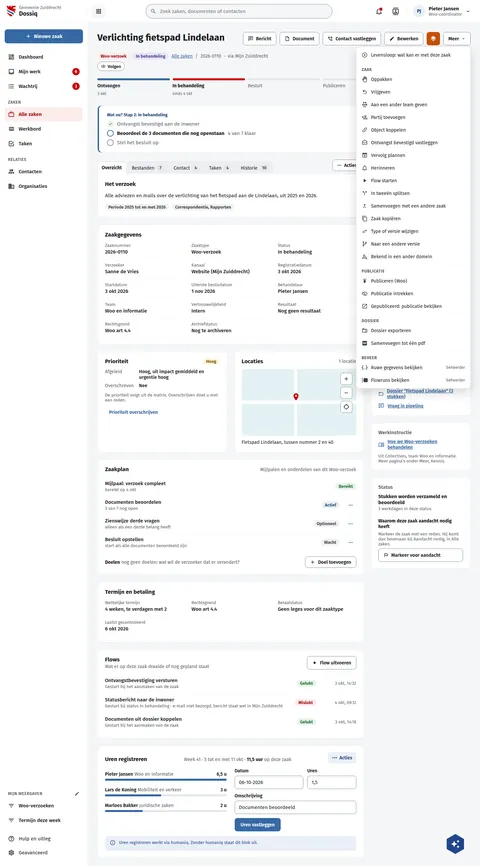
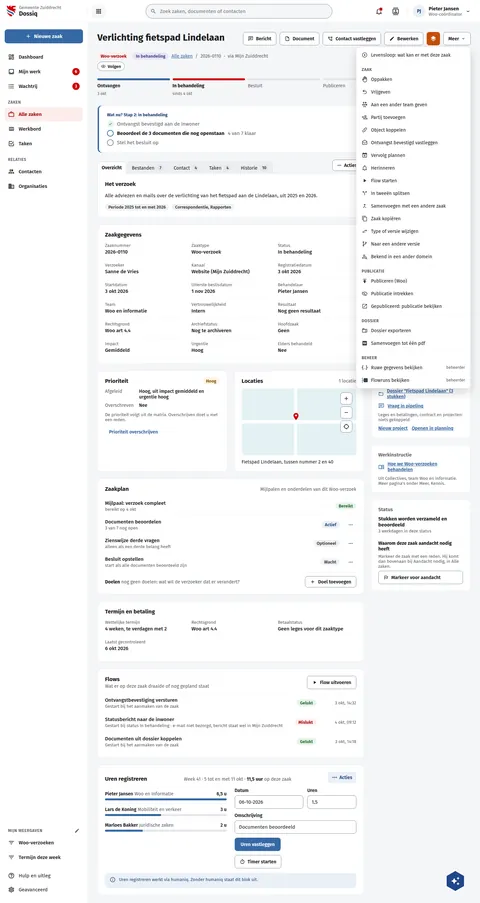
fix(screens): DqZaakMeer draws the case page DqZaak draws, with the Meer menu open
DqZaakMeer is DqZaak with the Meer menu open, but its page had drifted:
Zaakgegevens lacked Hoofdzaak, Impact, Urgentie and Elders behandeld,
Uren registreren lacked "Timer starten", and Gekoppeld lacked the
"niets gekoppeld" line with Nieuw project / Openen in planninq. Live draws
all of them, so r32 read DqZaakMeer's Prioriteit, Locaties and map 41px
low against a board that is 59px short. The three parts now match DqZaak.

Assisted-by: ClaudeCode:claude-opus-5-5

diff --git a/preview/screens/boards/DqZaakMeer.html b/preview/screens/boards/DqZaakMeer.html
@@ -232,7 +232,7 @@ a{color:var(--sc-primary, #3669a5)}a:hover{color:var(--sc-primary-deep, #234a78)
             </section>
             <section aria-labelledby="zg-titel" style="background: #ffffff; border: 1px solid var(--sc-work-line, #e4e6ea); border-radius: 12px; padding: 20px 22px; display: flex; flex-direction: column; gap: 14px">
               <h2 id="zg-titel" style="margin: 0; font-size: 17px; font-weight: 700">Zaakgegevens</h2>
-              <dl style="margin: 0; display: grid; grid-template-columns: repeat(auto-fit, minmax(200px, 1fr)); gap: 12px 24px; font-size: 15px"><div style="display: flex; flex-direction: column; gap: 3px; padding-bottom: 10px; border-bottom: 1px solid var(--sc-work-soft, #eef0f3)"><dt style="font-size: 13px; color: var(--sc-work-muted, #5e6168)">Zaaknummer</dt><dd style="margin: 0; font-weight: 500">2026-0110</dd></div><div style="display: flex; flex-direction: column; gap: 3px; padding-bottom: 10px; border-bottom: 1px solid var(--sc-work-soft, #eef0f3)"><dt style="font-size: 13px; color: var(--sc-work-muted, #5e6168)">Zaaktype</dt><dd style="margin: 0; font-weight: 500">Woo-verzoek</dd></div><div style="display: flex; flex-direction: column; gap: 3px; padding-bottom: 10px; border-bottom: 1px solid var(--sc-work-soft, #eef0f3)"><dt style="font-size: 13px; color: var(--sc-work-muted, #5e6168)">Status</dt><dd style="margin: 0; font-weight: 500">In behandeling</dd></div><div style="display: flex; flex-direction: column; gap: 3px; padding-bottom: 10px; border-bottom: 1px solid var(--sc-work-soft, #eef0f3)"><dt style="font-size: 13px; color: var(--sc-work-muted, #5e6168)">Verzoeker</dt><dd style="margin: 0; font-weight: 500">Sanne de Vries</dd></div><div style="display: flex; flex-direction: column; gap: 3px; padding-bottom: 10px; border-bottom: 1px solid var(--sc-work-soft, #eef0f3)"><dt style="font-size: 13px; color: var(--sc-work-muted, #5e6168)">Kanaal</dt><dd style="margin: 0; font-weight: 500">Website (Mijn Zuiddrecht)</dd></div><div style="display: flex; flex-direction: column; gap: 3px; padding-bottom: 10px; border-bottom: 1px solid var(--sc-work-soft, #eef0f3)"><dt style="font-size: 13px; color: var(--sc-work-muted, #5e6168)">Registratiedatum</dt><dd style="margin: 0; font-weight: 500">3 okt 2026</dd></div><div style="display: flex; flex-direction: column; gap: 3px; padding-bottom: 10px; border-bottom: 1px solid var(--sc-work-soft, #eef0f3)"><dt style="font-size: 13px; color: var(--sc-work-muted, #5e6168)">Startdatum</dt><dd style="margin: 0; font-weight: 500">3 okt 2026</dd></div><div style="display: flex; flex-direction: column; gap: 3px; padding-bottom: 10px; border-bottom: 1px solid var(--sc-work-soft, #eef0f3)"><dt style="font-size: 13px; color: var(--sc-work-muted, #5e6168)">Uiterste beslisdatum</dt><dd style="margin: 0; font-weight: 500">1 nov 2026</dd></div><div style="display: flex; flex-direction: column; gap: 3px; padding-bottom: 10px; border-bottom: 1px solid var(--sc-work-soft, #eef0f3)"><dt style="font-size: 13px; color: var(--sc-work-muted, #5e6168)">Behandelaar</dt><dd style="margin: 0; font-weight: 500">Pieter Jansen</dd></div><div style="display: flex; flex-direction: column; gap: 3px; padding-bottom: 10px; border-bottom: 1px solid var(--sc-work-soft, #eef0f3)"><dt style="font-size: 13px; color: var(--sc-work-muted, #5e6168)">Team</dt><dd style="margin: 0; font-weight: 500">Woo en informatie</dd></div><div style="display: flex; flex-direction: column; gap: 3px; padding-bottom: 10px; border-bottom: 1px solid var(--sc-work-soft, #eef0f3)"><dt style="font-size: 13px; color: var(--sc-work-muted, #5e6168)">Vertrouwelijkheid</dt><dd style="margin: 0; font-weight: 500">Intern</dd></div><div style="display: flex; flex-direction: column; gap: 3px; padding-bottom: 10px; border-bottom: 1px solid var(--sc-work-soft, #eef0f3)"><dt style="font-size: 13px; color: var(--sc-work-muted, #5e6168)">Resultaat</dt><dd style="margin: 0; font-weight: 500">Nog geen resultaat</dd></div><div style="display: flex; flex-direction: column; gap: 3px; padding-bottom: 10px; border-bottom: 1px solid var(--sc-work-soft, #eef0f3)"><dt style="font-size: 13px; color: var(--sc-work-muted, #5e6168)">Rechtsgrond</dt><dd style="margin: 0; font-weight: 500">Woo art 4.4</dd></div><div style="display: flex; flex-direction: column; gap: 3px; padding-bottom: 10px; border-bottom: 1px solid var(--sc-work-soft, #eef0f3)"><dt style="font-size: 13px; color: var(--sc-work-muted, #5e6168)">Archiefstatus</dt><dd style="margin: 0; font-weight: 500">Nog te archiveren</dd></div></dl>
+              <dl style="margin: 0; display: grid; grid-template-columns: repeat(auto-fit, minmax(200px, 1fr)); gap: 12px 24px; font-size: 15px"><div style="display: flex; flex-direction: column; gap: 3px; padding-bottom: 10px; border-bottom: 1px solid var(--sc-work-soft, #eef0f3)"><dt style="font-size: 13px; color: var(--sc-work-muted, #5e6168)">Zaaknummer</dt><dd style="margin: 0; font-weight: 500">2026-0110</dd></div><div style="display: flex; flex-direction: column; gap: 3px; padding-bottom: 10px; border-bottom: 1px solid var(--sc-work-soft, #eef0f3)"><dt style="font-size: 13px; color: var(--sc-work-muted, #5e6168)">Zaaktype</dt><dd style="margin: 0; font-weight: 500">Woo-verzoek</dd></div><div style="display: flex; flex-direction: column; gap: 3px; padding-bottom: 10px; border-bottom: 1px solid var(--sc-work-soft, #eef0f3)"><dt style="font-size: 13px; color: var(--sc-work-muted, #5e6168)">Status</dt><dd style="margin: 0; font-weight: 500">In behandeling</dd></div><div style="display: flex; flex-direction: column; gap: 3px; padding-bottom: 10px; border-bottom: 1px solid var(--sc-work-soft, #eef0f3)"><dt style="font-size: 13px; color: var(--sc-work-muted, #5e6168)">Verzoeker</dt><dd style="margin: 0; font-weight: 500">Sanne de Vries</dd></div><div style="display: flex; flex-direction: column; gap: 3px; padding-bottom: 10px; border-bottom: 1px solid var(--sc-work-soft, #eef0f3)"><dt style="font-size: 13px; color: var(--sc-work-muted, #5e6168)">Kanaal</dt><dd style="margin: 0; font-weight: 500">Website (Mijn Zuiddrecht)</dd></div><div style="display: flex; flex-direction: column; gap: 3px; padding-bottom: 10px; border-bottom: 1px solid var(--sc-work-soft, #eef0f3)"><dt style="font-size: 13px; color: var(--sc-work-muted, #5e6168)">Registratiedatum</dt><dd style="margin: 0; font-weight: 500">3 okt 2026</dd></div><div style="display: flex; flex-direction: column; gap: 3px; padding-bottom: 10px; border-bottom: 1px solid var(--sc-work-soft, #eef0f3)"><dt style="font-size: 13px; color: var(--sc-work-muted, #5e6168)">Startdatum</dt><dd style="margin: 0; font-weight: 500">3 okt 2026</dd></div><div style="display: flex; flex-direction: column; gap: 3px; padding-bottom: 10px; border-bottom: 1px solid var(--sc-work-soft, #eef0f3)"><dt style="font-size: 13px; color: var(--sc-work-muted, #5e6168)">Uiterste beslisdatum</dt><dd style="margin: 0; font-weight: 500">1 nov 2026</dd></div><div style="display: flex; flex-direction: column; gap: 3px; padding-bottom: 10px; border-bottom: 1px solid var(--sc-work-soft, #eef0f3)"><dt style="font-size: 13px; color: var(--sc-work-muted, #5e6168)">Behandelaar</dt><dd style="margin: 0; font-weight: 500">Pieter Jansen</dd></div><div style="display: flex; flex-direction: column; gap: 3px; padding-bottom: 10px; border-bottom: 1px solid var(--sc-work-soft, #eef0f3)"><dt style="font-size: 13px; color: var(--sc-work-muted, #5e6168)">Team</dt><dd style="margin: 0; font-weight: 500">Woo en informatie</dd></div><div style="display: flex; flex-direction: column; gap: 3px; padding-bottom: 10px; border-bottom: 1px solid var(--sc-work-soft, #eef0f3)"><dt style="font-size: 13px; color: var(--sc-work-muted, #5e6168)">Vertrouwelijkheid</dt><dd style="margin: 0; font-weight: 500">Intern</dd></div><div style="display: flex; flex-direction: column; gap: 3px; padding-bottom: 10px; border-bottom: 1px solid var(--sc-work-soft, #eef0f3)"><dt style="font-size: 13px; color: var(--sc-work-muted, #5e6168)">Resultaat</dt><dd style="margin: 0; font-weight: 500">Nog geen resultaat</dd></div><div style="display: flex; flex-direction: column; gap: 3px; padding-bottom: 10px; border-bottom: 1px solid var(--sc-work-soft, #eef0f3)"><dt style="font-size: 13px; color: var(--sc-work-muted, #5e6168)">Rechtsgrond</dt><dd style="margin: 0; font-weight: 500">Woo art 4.4</dd></div><div style="display: flex; flex-direction: column; gap: 3px; padding-bottom: 10px; border-bottom: 1px solid var(--sc-work-soft, #eef0f3)"><dt style="font-size: 13px; color: var(--sc-work-muted, #5e6168)">Archiefstatus</dt><dd style="margin: 0; font-weight: 500">Nog te archiveren</dd></div><div style="display: flex; flex-direction: column; gap: 3px; padding-bottom: 10px; border-bottom: 1px solid var(--sc-work-soft, #eef0f3)"><dt style="font-size: 13px; color: var(--sc-work-muted, #5e6168)">Hoofdzaak</dt><dd style="margin: 0; font-weight: 500">Geen</dd></div><div style="display: flex; flex-direction: column; gap: 3px; padding-bottom: 10px; border-bottom: 1px solid var(--sc-work-soft, #eef0f3)"><dt style="font-size: 13px; color: var(--sc-work-muted, #5e6168)">Impact</dt><dd style="margin: 0; font-weight: 500">Gemiddeld</dd></div><div style="display: flex; flex-direction: column; gap: 3px; padding-bottom: 10px; border-bottom: 1px solid var(--sc-work-soft, #eef0f3)"><dt style="font-size: 13px; color: var(--sc-work-muted, #5e6168)">Urgentie</dt><dd style="margin: 0; font-weight: 500">Hoog</dd></div><div style="display: flex; flex-direction: column; gap: 3px; padding-bottom: 10px; border-bottom: 1px solid var(--sc-work-soft, #eef0f3)"><dt style="font-size: 13px; color: var(--sc-work-muted, #5e6168)">Elders behandeld</dt><dd style="margin: 0; font-weight: 500">Nee</dd></div></dl>
             </section>
             <div style="display: grid; grid-template-columns: repeat(auto-fit, minmax(300px, 1fr)); gap: 20px">
               <section aria-labelledby="pr-titel" style="background: #ffffff; border: 1px solid var(--sc-work-line, #e4e6ea); border-radius: 12px; padding: 20px 22px; display: flex; flex-direction: column; gap: 12px">
@@ -269,7 +269,7 @@ a{color:var(--sc-primary, #3669a5)}a:hover{color:var(--sc-primary-deep, #234a78)
                     <div style="display: flex; flex-direction: column; gap: 6px"><label for="ur-uren" style="font-size: 14px; font-weight: 600">Uren</label><input id="ur-uren" type="text" inputmode="decimal" value="1,5" style="box-sizing: border-box; width: 100%; height: 40px; padding: 0 12px; border: 1px solid var(--sc-work-field, #828a95); border-radius: 8px; background: #ffffff; font: 400 15px var(--sc-font, 'Fira Sans'), sans-serif; color: var(--sc-work-ink, #1b1c1d)"></div>
                   </div>
                   <div style="display: flex; flex-direction: column; gap: 6px"><label for="ur-omschr" style="font-size: 14px; font-weight: 600">Omschrijving</label><input id="ur-omschr" type="text" value="Documenten beoordeeld" style="box-sizing: border-box; width: 100%; height: 40px; padding: 0 12px; border: 1px solid var(--sc-work-field, #828a95); border-radius: 8px; background: #ffffff; font: 400 15px var(--sc-font, 'Fira Sans'), sans-serif; color: var(--sc-work-ink, #1b1c1d)"></div>
-                  <button type="submit" style="align-self: flex-start; height: 40px; padding: 0 18px; border: 0; border-radius: 8px; background: var(--sc-primary, #3669a5); color: #ffffff; font: 600 14px var(--sc-font, 'Fira Sans'), sans-serif">Uren vastleggen</button>
+                  <button type="submit" style="align-self: flex-start; height: 40px; padding: 0 18px; border: 0; border-radius: 8px; background: var(--sc-primary, #3669a5); color: #ffffff; font: 600 14px var(--sc-font, 'Fira Sans'), sans-serif">Uren vastleggen</button><button type="button" style="align-self: flex-start; display: inline-flex; align-items: center; gap: 8px; height: 40px; padding: 0 14px; border-radius: 8px; border: 1px solid var(--sc-work-field, #828a95); background: #ffffff; color: var(--sc-work-ink, #1b1c1d); font: 600 14px var(--sc-font, 'Fira Sans'), sans-serif; white-space: nowrap"><svg width="16" height="16" viewbox="0 0 24 24" fill="currentColor" aria-hidden="true"><path d="M12,20A7,7 0 0,1 5,13A7,7 0 0,1 12,6A7,7 0 0,1 19,13A7,7 0 0,1 12,20M19.03,7.39L20.45,5.97C20,5.46 19.55,5 19.04,4.56L17.62,6C16.07,4.74 14.12,4 12,4A9,9 0 0,0 3,13A9,9 0 0,0 12,22C17,22 21,17.97 21,13C21,10.88 20.26,8.93 19.03,7.39M11,14H13V8H11M15,1H9V3H15V1Z"></path></svg>Timer starten</button>
                 </form>
               </div>
               <div style="display: flex; gap: 10px; align-items: flex-start; padding: 10px 14px; border-radius: 10px; background: var(--sc-primary-light, #eaf0f7); color: var(--sc-primary-deep, #234a78); font-size: 13px; line-height: 1.5"><span style="flex: none; margin-top: 1px"><svg width="18" height="18" viewbox="0 0 24 24" fill="currentColor" aria-hidden="true"><path d="M11,9H13V7H11M12,20C7.59,20 4,16.41 4,12C4,7.59 7.59,4 12,4C16.41,4 20,7.59 20,12C20,16.41 16.41,20 12,20M12,2A10,10 0 0,0 2,12A10,10 0 0,0 12,22A10,10 0 0,0 22,12A10,10 0 0,0 12,2M11,17H13V11H11V17Z"></path></svg></span><span>Uren registreren werkt via humaniq. Zonder humaniq staat dit blok uit.</span></div>
@@ -302,6 +302,7 @@ a{color:var(--sc-primary, #3669a5)}a:hover{color:var(--sc-primary-deep, #234a78)
               <h2 style="margin: 0; font-size: 15px; font-weight: 600; color: var(--sc-work-muted, #5e6168)">Gekoppeld</h2>
               <a href="#" style="display: flex; gap: 10px; align-items: center; font-size: 14px; font-weight: 600"><svg width="18" height="18" viewbox="0 0 24 24" fill="currentColor"><path d="M20,18H4V8H20M20,6H12L10,4H4C2.89,4 2,4.89 2,6V18A2,2 0 0,0 4,20H20A2,2 0 0,0 22,18V8C22,6.89 21.1,6 20,6Z"></path></svg>Dossier "Fietspad Lindelaan" (3 stukken)</a>
               <a href="#" style="display: flex; gap: 10px; align-items: center; font-size: 14px; font-weight: 600"><svg width="18" height="18" viewbox="0 0 24 24" fill="currentColor"><path d="M20,2A2,2 0 0,1 22,4V16A2,2 0 0,1 20,18H6L2,22V4C2,2.89 2.9,2 4,2H20M4,4V17.17L5.17,16H20V4H4M6,7H18V9H6V7M6,11H15V13H6V11Z"></path></svg>Vraag in pipelinq</a>
+              <span style="font-size: 13px; color: var(--sc-work-muted, #5e6168)">Leges en betalingen, contract en projecten: niets gekoppeld</span><span style="display: flex; flex-wrap: wrap; gap: 12px; font-size: 14px; font-weight: 600"><a href="#">Nieuw project</a><a href="#">Openen in planninq</a></span>
             </section>
             <section style="background: #ffffff; border: 1px solid var(--sc-work-line, #e4e6ea); border-radius: 12px; padding: 20px 22px; display: flex; flex-direction: column; gap: 10px">
               <h2 style="margin: 0; font-size: 15px; font-weight: 600; color: var(--sc-work-muted, #5e6168)">Werkinstructie</h2>

diff --git a/screens-src/zuiddrecht/DqZaakMeer.dc.html b/screens-src/zuiddrecht/DqZaakMeer.dc.html
@@ -82,7 +82,7 @@ a{color:#3669a5}a:hover{color:#234a78}
             </section>
             <section aria-labelledby="zg-titel" style="background: #ffffff; border: 1px solid #e4e6ea; border-radius: 12px; padding: 20px 22px; display: flex; flex-direction: column; gap: 14px">
               <h2 id="zg-titel" style="margin: 0; font-size: 17px; font-weight: 700">Zaakgegevens</h2>
-              <dl style="margin: 0; display: grid; grid-template-columns: repeat(auto-fit, minmax(200px, 1fr)); gap: 12px 24px; font-size: 15px"><div style="display: flex; flex-direction: column; gap: 3px; padding-bottom: 10px; border-bottom: 1px solid #eef0f3"><dt style="font-size: 13px; color: #5e6168">Zaaknummer</dt><dd style="margin: 0; font-weight: 500">2026-0110</dd></div><div style="display: flex; flex-direction: column; gap: 3px; padding-bottom: 10px; border-bottom: 1px solid #eef0f3"><dt style="font-size: 13px; color: #5e6168">Zaaktype</dt><dd style="margin: 0; font-weight: 500">Woo-verzoek</dd></div><div style="display: flex; flex-direction: column; gap: 3px; padding-bottom: 10px; border-bottom: 1px solid #eef0f3"><dt style="font-size: 13px; color: #5e6168">Status</dt><dd style="margin: 0; font-weight: 500">In behandeling</dd></div><div style="display: flex; flex-direction: column; gap: 3px; padding-bottom: 10px; border-bottom: 1px solid #eef0f3"><dt style="font-size: 13px; color: #5e6168">Verzoeker</dt><dd style="margin: 0; font-weight: 500">Sanne de Vries</dd></div><div style="display: flex; flex-direction: column; gap: 3px; padding-bottom: 10px; border-bottom: 1px solid #eef0f3"><dt style="font-size: 13px; color: #5e6168">Kanaal</dt><dd style="margin: 0; font-weight: 500">Website (Mijn Zuiddrecht)</dd></div><div style="display: flex; flex-direction: column; gap: 3px; padding-bottom: 10px; border-bottom: 1px solid #eef0f3"><dt style="font-size: 13px; color: #5e6168">Registratiedatum</dt><dd style="margin: 0; font-weight: 500">3 okt 2026</dd></div><div style="display: flex; flex-direction: column; gap: 3px; padding-bottom: 10px; border-bottom: 1px solid #eef0f3"><dt style="font-size: 13px; color: #5e6168">Startdatum</dt><dd style="margin: 0; font-weight: 500">3 okt 2026</dd></div><div style="display: flex; flex-direction: column; gap: 3px; padding-bottom: 10px; border-bottom: 1px solid #eef0f3"><dt style="font-size: 13px; color: #5e6168">Uiterste beslisdatum</dt><dd style="margin: 0; font-weight: 500">1 nov 2026</dd></div><div style="display: flex; flex-direction: column; gap: 3px; padding-bottom: 10px; border-bottom: 1px solid #eef0f3"><dt style="font-size: 13px; color: #5e6168">Behandelaar</dt><dd style="margin: 0; font-weight: 500">Pieter Jansen</dd></div><div style="display: flex; flex-direction: column; gap: 3px; padding-bottom: 10px; border-bottom: 1px solid #eef0f3"><dt style="font-size: 13px; color: #5e6168">Team</dt><dd style="margin: 0; font-weight: 500">Woo en informatie</dd></div><div style="display: flex; flex-direction: column; gap: 3px; padding-bottom: 10px; border-bottom: 1px solid #eef0f3"><dt style="font-size: 13px; color: #5e6168">Vertrouwelijkheid</dt><dd style="margin: 0; font-weight: 500">Intern</dd></div><div style="display: flex; flex-direction: column; gap: 3px; padding-bottom: 10px; border-bottom: 1px solid #eef0f3"><dt style="font-size: 13px; color: #5e6168">Resultaat</dt><dd style="margin: 0; font-weight: 500">Nog geen resultaat</dd></div><div style="display: flex; flex-direction: column; gap: 3px; padding-bottom: 10px; border-bottom: 1px solid #eef0f3"><dt style="font-size: 13px; color: #5e6168">Rechtsgrond</dt><dd style="margin: 0; font-weight: 500">Woo art 4.4</dd></div><div style="display: flex; flex-direction: column; gap: 3px; padding-bottom: 10px; border-bottom: 1px solid #eef0f3"><dt style="font-size: 13px; color: #5e6168">Archiefstatus</dt><dd style="margin: 0; font-weight: 500">Nog te archiveren</dd></div></dl>
+              <dl style="margin: 0; display: grid; grid-template-columns: repeat(auto-fit, minmax(200px, 1fr)); gap: 12px 24px; font-size: 15px"><div style="display: flex; flex-direction: column; gap: 3px; padding-bottom: 10px; border-bottom: 1px solid #eef0f3"><dt style="font-size: 13px; color: #5e6168">Zaaknummer</dt><dd style="margin: 0; font-weight: 500">2026-0110</dd></div><div style="display: flex; flex-direction: column; gap: 3px; padding-bottom: 10px; border-bottom: 1px solid #eef0f3"><dt style="font-size: 13px; color: #5e6168">Zaaktype</dt><dd style="margin: 0; font-weight: 500">Woo-verzoek</dd></div><div style="display: flex; flex-direction: column; gap: 3px; padding-bottom: 10px; border-bottom: 1px solid #eef0f3"><dt style="font-size: 13px; color: #5e6168">Status</dt><dd style="margin: 0; font-weight: 500">In behandeling</dd></div><div style="display: flex; flex-direction: column; gap: 3px; padding-bottom: 10px; border-bottom: 1px solid #eef0f3"><dt style="font-size: 13px; color: #5e6168">Verzoeker</dt><dd style="margin: 0; font-weight: 500">Sanne de Vries</dd></div><div style="display: flex; flex-direction: column; gap: 3px; padding-bottom: 10px; border-bottom: 1px solid #eef0f3"><dt style="font-size: 13px; color: #5e6168">Kanaal</dt><dd style="margin: 0; font-weight: 500">Website (Mijn Zuiddrecht)</dd></div><div style="display: flex; flex-direction: column; gap: 3px; padding-bottom: 10px; border-bottom: 1px solid #eef0f3"><dt style="font-size: 13px; color: #5e6168">Registratiedatum</dt><dd style="margin: 0; font-weight: 500">3 okt 2026</dd></div><div style="display: flex; flex-direction: column; gap: 3px; padding-bottom: 10px; border-bottom: 1px solid #eef0f3"><dt style="font-size: 13px; color: #5e6168">Startdatum</dt><dd style="margin: 0; font-weight: 500">3 okt 2026</dd></div><div style="display: flex; flex-direction: column; gap: 3px; padding-bottom: 10px; border-bottom: 1px solid #eef0f3"><dt style="font-size: 13px; color: #5e6168">Uiterste beslisdatum</dt><dd style="margin: 0; font-weight: 500">1 nov 2026</dd></div><div style="display: flex; flex-direction: column; gap: 3px; padding-bottom: 10px; border-bottom: 1px solid #eef0f3"><dt style="font-size: 13px; color: #5e6168">Behandelaar</dt><dd style="margin: 0; font-weight: 500">Pieter Jansen</dd></div><div style="display: flex; flex-direction: column; gap: 3px; padding-bottom: 10px; border-bottom: 1px solid #eef0f3"><dt style="font-size: 13px; color: #5e6168">Team</dt><dd style="margin: 0; font-weight: 500">Woo en informatie</dd></div><div style="display: flex; flex-direction: column; gap: 3px; padding-bottom: 10px; border-bottom: 1px solid #eef0f3"><dt style="font-size: 13px; color: #5e6168">Vertrouwelijkheid</dt><dd style="margin: 0; font-weight: 500">Intern</dd></div><div style="display: flex; flex-direction: column; gap: 3px; padding-bottom: 10px; border-bottom: 1px solid #eef0f3"><dt style="font-size: 13px; color: #5e6168">Resultaat</dt><dd style="margin: 0; font-weight: 500">Nog geen resultaat</dd></div><div style="display: flex; flex-direction: column; gap: 3px; padding-bottom: 10px; border-bottom: 1px solid #eef0f3"><dt style="font-size: 13px; color: #5e6168">Rechtsgrond</dt><dd style="margin: 0; font-weight: 500">Woo art 4.4</dd></div><div style="display: flex; flex-direction: column; gap: 3px; padding-bottom: 10px; border-bottom: 1px solid #eef0f3"><dt style="font-size: 13px; color: #5e6168">Archiefstatus</dt><dd style="margin: 0; font-weight: 500">Nog te archiveren</dd></div><div style="display: flex; flex-direction: column; gap: 3px; padding-bottom: 10px; border-bottom: 1px solid #eef0f3"><dt style="font-size: 13px; color: #5e6168">Hoofdzaak</dt><dd style="margin: 0; font-weight: 500">Geen</dd></div><div style="display: flex; flex-direction: column; gap: 3px; padding-bottom: 10px; border-bottom: 1px solid #eef0f3"><dt style="font-size: 13px; color: #5e6168">Impact</dt><dd style="margin: 0; font-weight: 500">Gemiddeld</dd></div><div style="display: flex; flex-direction: column; gap: 3px; padding-bottom: 10px; border-bottom: 1px solid #eef0f3"><dt style="font-size: 13px; color: #5e6168">Urgentie</dt><dd style="margin: 0; font-weight: 500">Hoog</dd></div><div style="display: flex; flex-direction: column; gap: 3px; padding-bottom: 10px; border-bottom: 1px solid #eef0f3"><dt style="font-size: 13px; color: #5e6168">Elders behandeld</dt><dd style="margin: 0; font-weight: 500">Nee</dd></div></dl>
             </section>
             <div style="display: grid; grid-template-columns: repeat(auto-fit, minmax(300px, 1fr)); gap: 20px">
               <section aria-labelledby="pr-titel" style="background: #ffffff; border: 1px solid #e4e6ea; border-radius: 12px; padding: 20px 22px; display: flex; flex-direction: column; gap: 12px">
@@ -119,7 +119,7 @@ a{color:#3669a5}a:hover{color:#234a78}
                     <div style="display: flex; flex-direction: column; gap: 6px"><label for="ur-uren" style="font-size: 14px; font-weight: 600">Uren</label><input id="ur-uren" type="text" inputmode="decimal" value="1,5" style="box-sizing: border-box; width: 100%; height: 40px; padding: 0 12px; border: 1px solid #828a95; border-radius: 8px; background: #ffffff; font: 400 15px 'Fira Sans', sans-serif; color: #1b1c1d"></div>
                   </div>
                   <div style="display: flex; flex-direction: column; gap: 6px"><label for="ur-omschr" style="font-size: 14px; font-weight: 600">Omschrijving</label><input id="ur-omschr" type="text" value="Documenten beoordeeld" style="box-sizing: border-box; width: 100%; height: 40px; padding: 0 12px; border: 1px solid #828a95; border-radius: 8px; background: #ffffff; font: 400 15px 'Fira Sans', sans-serif; color: #1b1c1d"></div>
-                  <button type="submit" style="align-self: flex-start; height: 40px; padding: 0 18px; border: 0; border-radius: 8px; background: #3669a5; color: #ffffff; font: 600 14px 'Fira Sans', sans-serif">Uren vastleggen</button>
+                  <button type="submit" style="align-self: flex-start; height: 40px; padding: 0 18px; border: 0; border-radius: 8px; background: #3669a5; color: #ffffff; font: 600 14px 'Fira Sans', sans-serif">Uren vastleggen</button><button type="button" style="align-self: flex-start; display: inline-flex; align-items: center; gap: 8px; height: 40px; padding: 0 14px; border-radius: 8px; border: 1px solid #828a95; background: #ffffff; color: #1b1c1d; font: 600 14px 'Fira Sans', sans-serif; white-space: nowrap"><svg width="16" height="16" viewBox="0 0 24 24" fill="currentColor" aria-hidden="true"><path d="M12,20A7,7 0 0,1 5,13A7,7 0 0,1 12,6A7,7 0 0,1 19,13A7,7 0 0,1 12,20M19.03,7.39L20.45,5.97C20,5.46 19.55,5 19.04,4.56L17.62,6C16.07,4.74 14.12,4 12,4A9,9 0 0,0 3,13A9,9 0 0,0 12,22C17,22 21,17.97 21,13C21,10.88 20.26,8.93 19.03,7.39M11,14H13V8H11M15,1H9V3H15V1Z"></path></svg>Timer starten</button>
                 </form>
               </div>
               <div style="display: flex; gap: 10px; align-items: flex-start; padding: 10px 14px; border-radius: 10px; background: #eaf0f7; color: #234a78; font-size: 13px; line-height: 1.5"><span style="flex: none; margin-top: 1px"><svg width="18" height="18" viewBox="0 0 24 24" fill="currentColor" aria-hidden="true"><path d="M11,9H13V7H11M12,20C7.59,20 4,16.41 4,12C4,7.59 7.59,4 12,4C16.41,4 20,7.59 20,12C20,16.41 16.41,20 12,20M12,2A10,10 0 0,0 2,12A10,10 0 0,0 12,22A10,10 0 0,0 22,12A10,10 0 0,0 12,2M11,17H13V11H11V17Z"></path></svg></span><span>Uren registreren werkt via humaniq. Zonder humaniq staat dit blok uit.</span></div>
@@ -152,6 +152,7 @@ a{color:#3669a5}a:hover{color:#234a78}
               <h2 style="margin: 0; font-size: 15px; font-weight: 600; color: #5e6168">Gekoppeld</h2>
               <a href="#" style="display: flex; gap: 10px; align-items: center; font-size: 14px; font-weight: 600"><svg width="18" height="18" viewBox="0 0 24 24" fill="currentColor"><path d="M20,18H4V8H20M20,6H12L10,4H4C2.89,4 2,4.89 2,6V18A2,2 0 0,0 4,20H20A2,2 0 0,0 22,18V8C22,6.89 21.1,6 20,6Z"></path></svg>Dossier "Fietspad Lindelaan" (3 stukken)</a>
               <a href="#" style="display: flex; gap: 10px; align-items: center; font-size: 14px; font-weight: 600"><svg width="18" height="18" viewBox="0 0 24 24" fill="currentColor"><path d="M20,2A2,2 0 0,1 22,4V16A2,2 0 0,1 20,18H6L2,22V4C2,2.89 2.9,2 4,2H20M4,4V17.17L5.17,16H20V4H4M6,7H18V9H6V7M6,11H15V13H6V11Z"></path></svg>Vraag in pipelinq</a>
+              <span style="font-size: 13px; color: #5e6168">Leges en betalingen, contract en projecten: niets gekoppeld</span><span style="display: flex; flex-wrap: wrap; gap: 12px; font-size: 14px; font-weight: 600"><a href="#">Nieuw project</a><a href="#">Openen in planninq</a></span>
             </section>
             <section style="background: #ffffff; border: 1px solid #e4e6ea; border-radius: 12px; padding: 20px 22px; display: flex; flex-direction: column; gap: 10px">
               <h2 style="margin: 0; font-size: 15px; font-weight: 600; color: #5e6168">Werkinstructie</h2>
